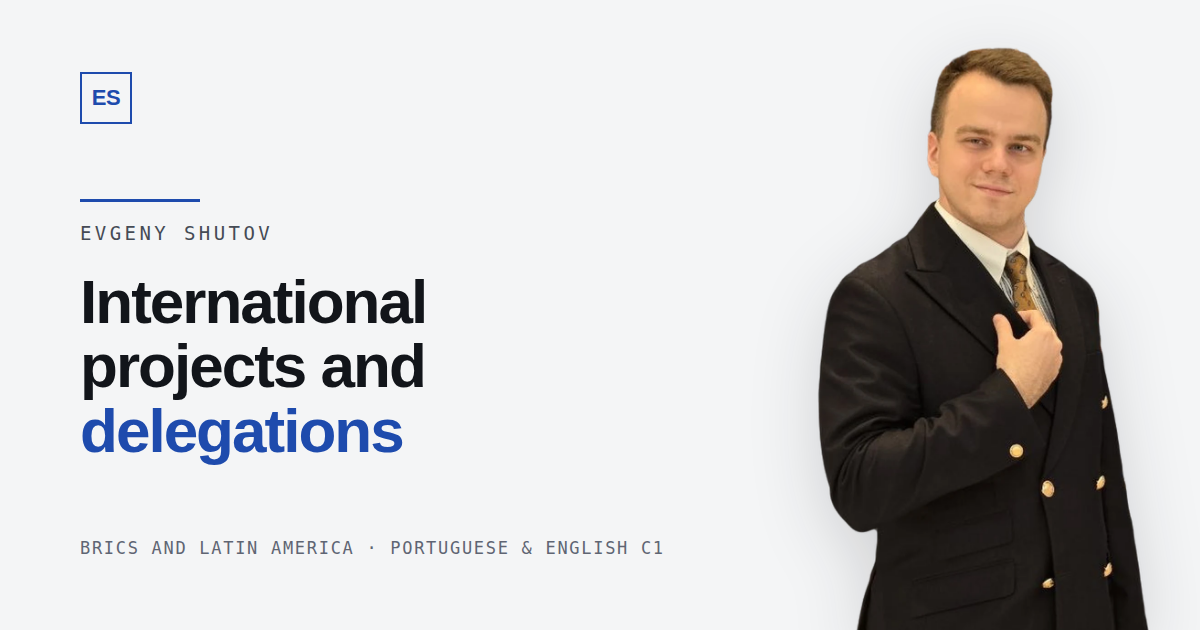
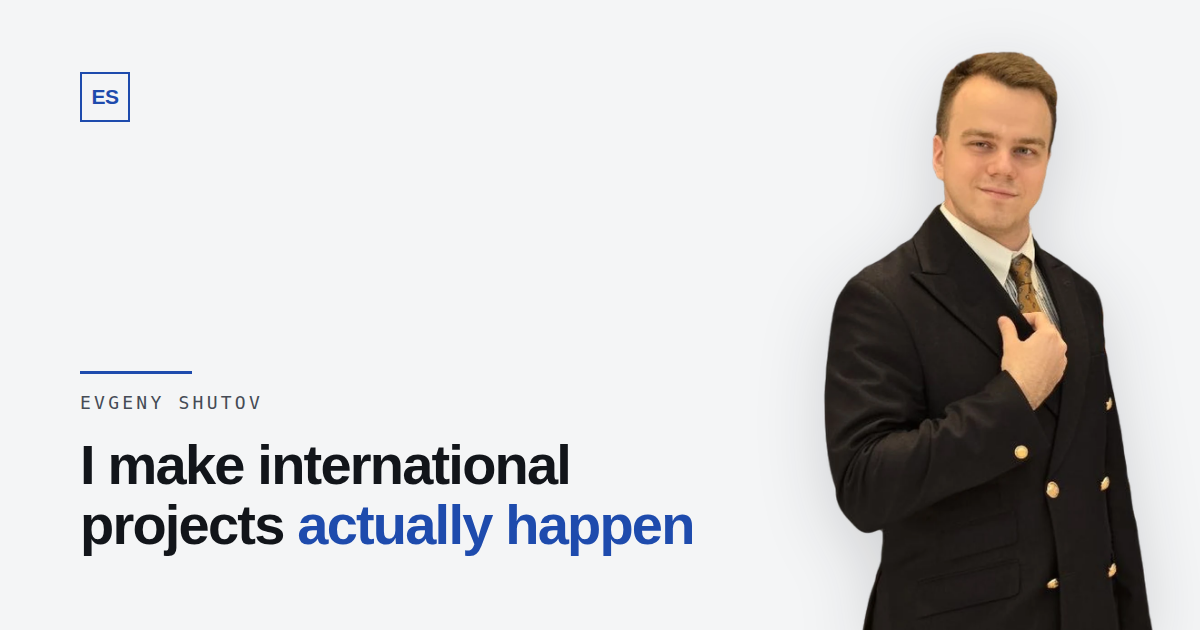
Карточка превью: заголовок с сайта вместо сочиненного
На карточке стоял заголовок «Международные проекты и делегации», которого
на сайте нет и который автор не утверждал. Карточка уходит в каждый чат
вместе с его именем, своих слов там быть не должно.

Теперь заголовок и подпись берутся из src/content.mjs, из тех же полей,
что и обложка страницы: hero.lead, hero.leadEm, hero.eyebrow. Разойтись
с сайтом карточка больше не может. Подпись og:image:alt собирается оттуда
же, поле ogImageAlt удалено.

Текст самой страницы не менялся: сверка видимых строк с 32e0e06 дает
совпадение по всем 245 строкам, кроме двух добавленных строк полосы
о cookie.

Claude-Session: https://claude.ai/code/session_01WqaZRMW15F2pNUS9pVih7V

diff --git a/index.html b/index.html
@@ -25,7 +25,7 @@
 <meta property="og:image:type" content="image/png">
 <meta property="og:image:width" content="1200">
 <meta property="og:image:height" content="630">
-<meta property="og:image:alt" content="Евгений Шутов. Международные проекты и делегации">
+<meta property="og:image:alt" content="Евгений Шутов. Отвечаю за то, чтобы международный проект состоялся">
 <meta name="twitter:card" content="summary_large_image">
 <meta name="theme-color" content="#f4f5f6" media="(prefers-color-scheme: light)">
 <meta name="theme-color" content="#0e1116" media="(prefers-color-scheme: dark)">

diff --git a/en/index.html b/en/index.html
@@ -25,7 +25,7 @@
 <meta property="og:image:type" content="image/png">
 <meta property="og:image:width" content="1200">
 <meta property="og:image:height" content="630">
-<meta property="og:image:alt" content="Evgeny Shutov. International projects and delegations">
+<meta property="og:image:alt" content="Evgeny Shutov. I make international projects actually happen">
 <meta name="twitter:card" content="summary_large_image">
 <meta name="theme-color" content="#f4f5f6" media="(prefers-color-scheme: light)">
 <meta name="theme-color" content="#0e1116" media="(prefers-color-scheme: dark)">
